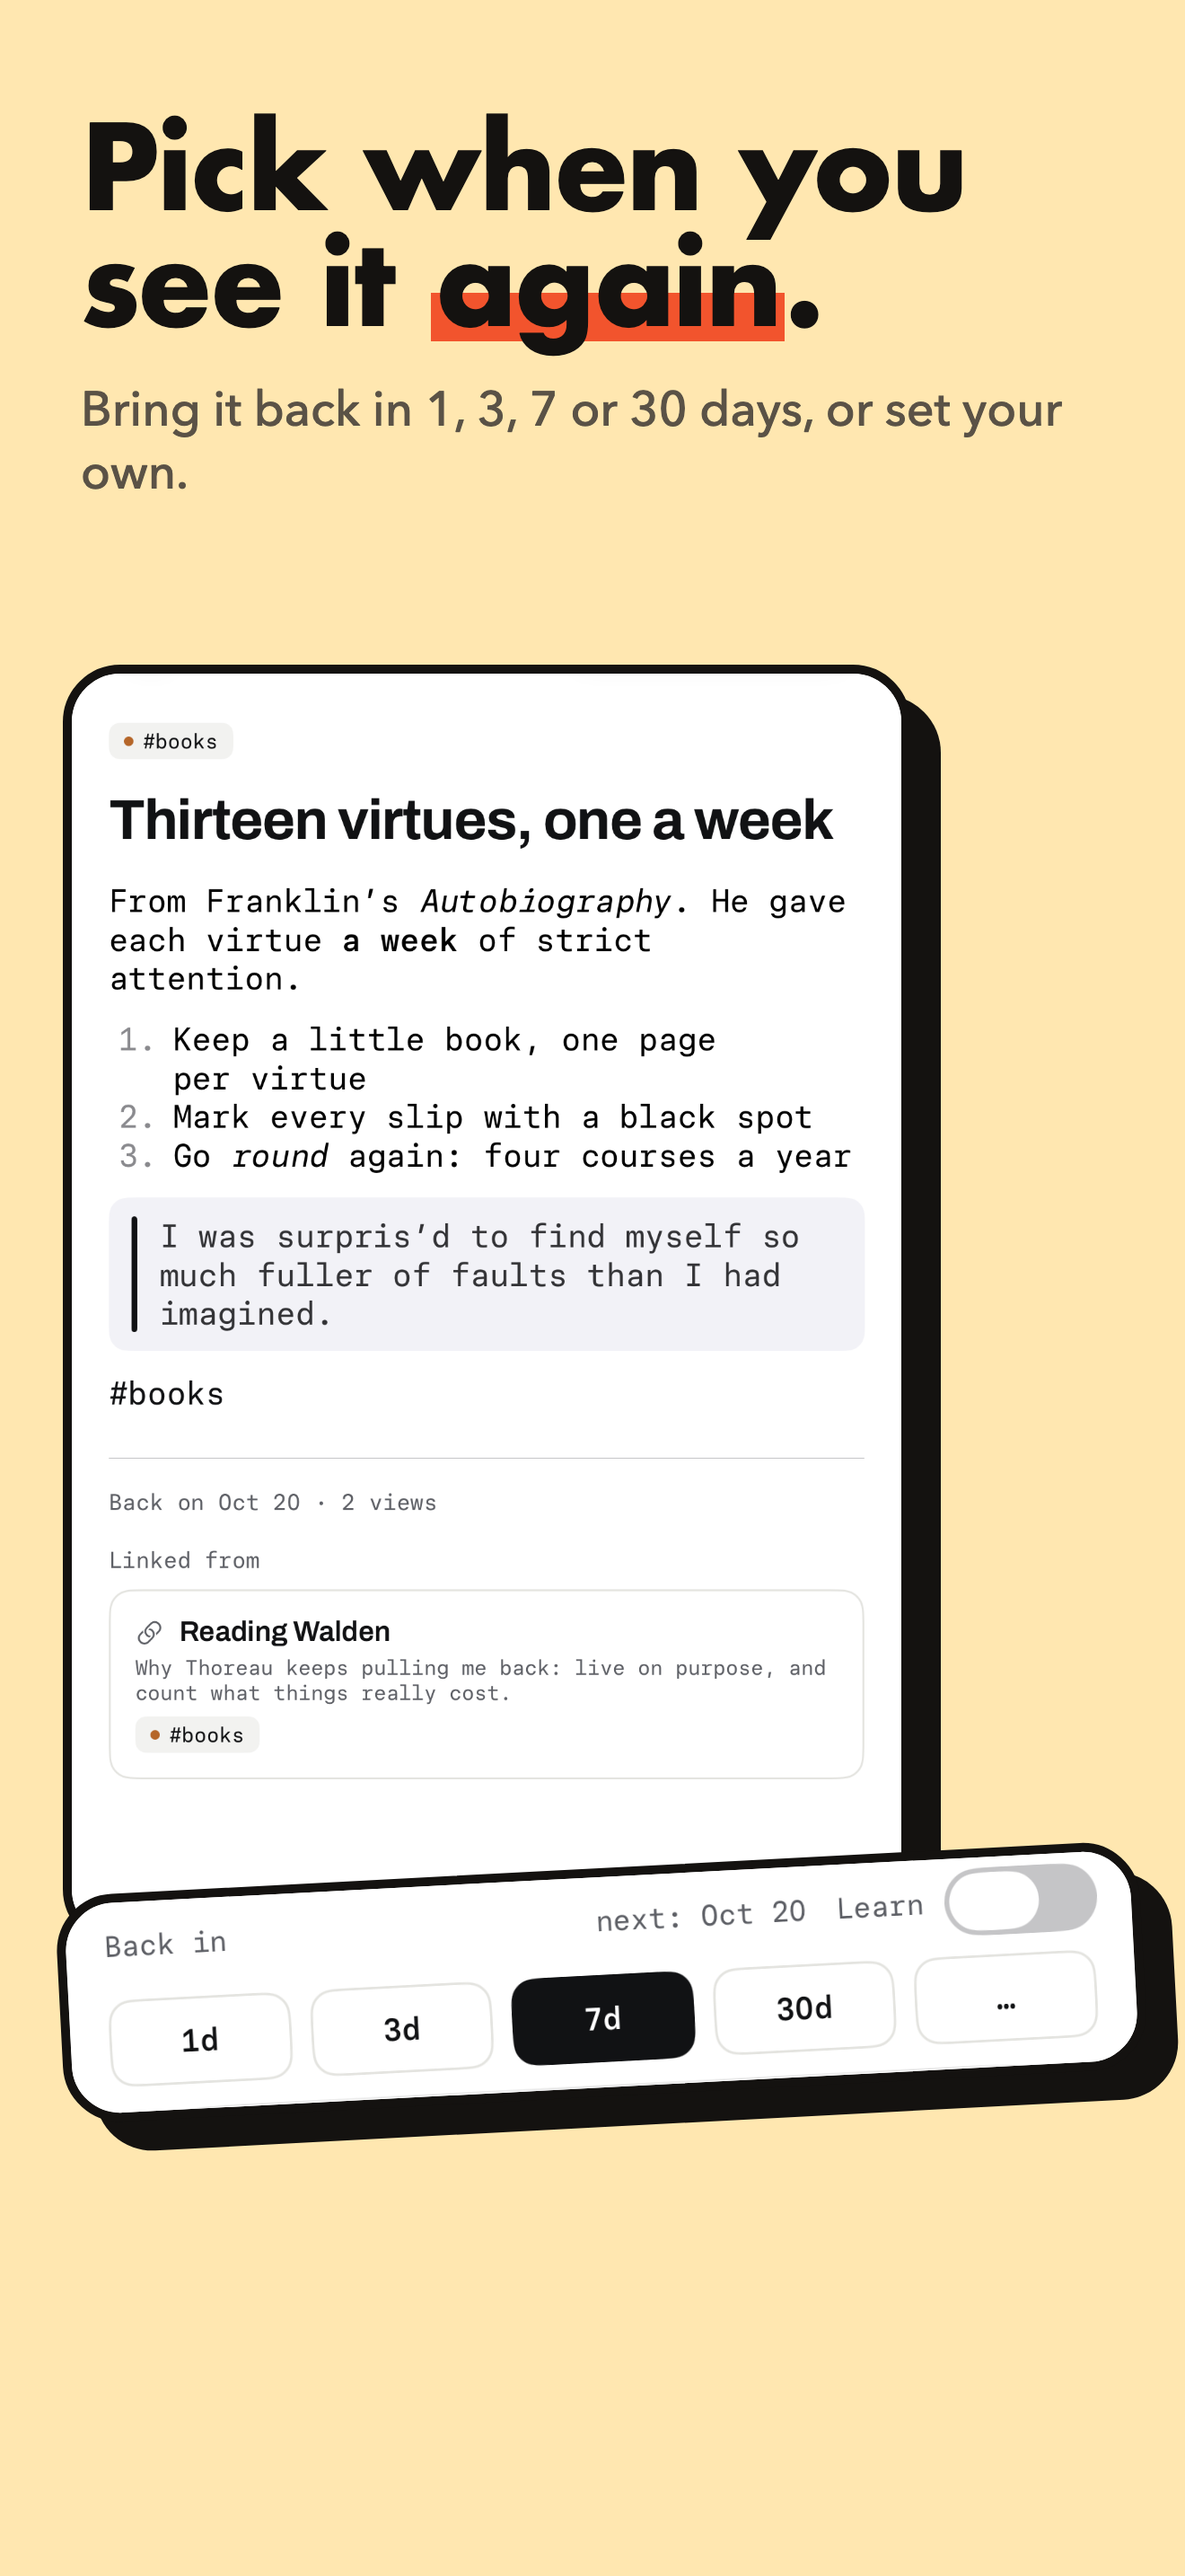
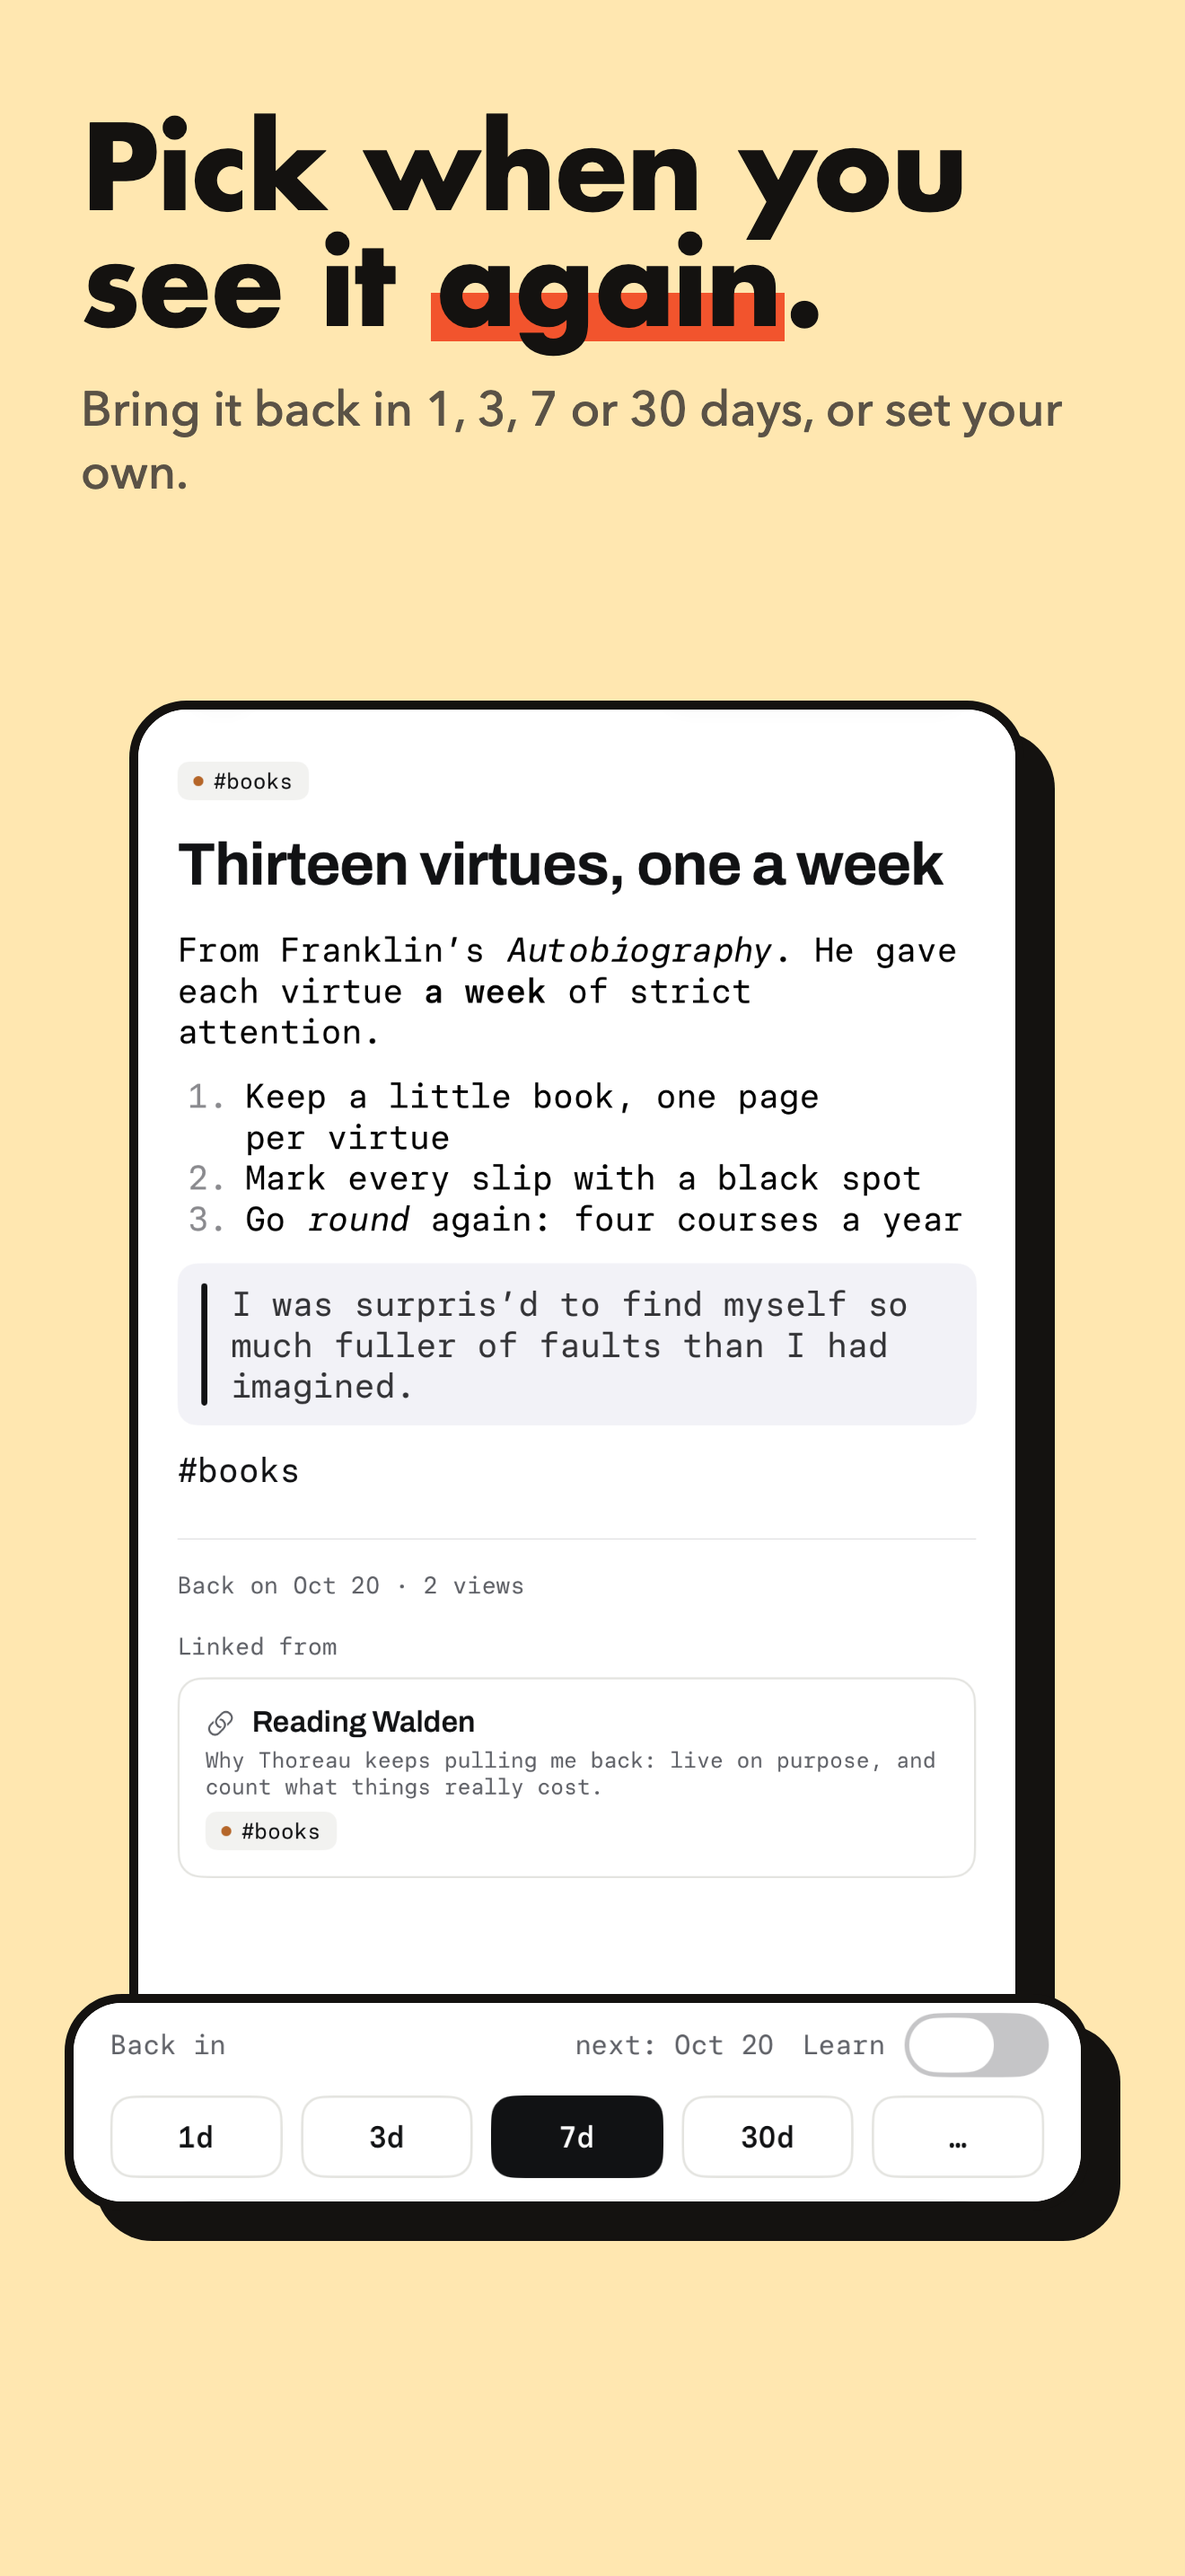
Screenshots: center the interval cards, untilt the Back in close-up, pad the search card's top
Claude-Session: https://claude.ai/code/session_01AqnxEHZ3DQgCfWnMDku6rd

Changed region(s): [[0.0311, 0.2483, 0.9939, 0.8689]]

diff --git a/app-store-assets/Screenshots/src/shot.html b/app-store-assets/Screenshots/src/shot.html
@@ -15,12 +15,12 @@
   h1 mark { background: linear-gradient(transparent 58%, var(--accent) 58% 90%, transparent 90%); color: inherit; padding: 0 0.04em; }
   h1 .loop { display: inline-block; width: 0.5em; height: 0.5em; margin-left: 0.04em; vertical-align: 0.05em; color: var(--ink); }
   p.support { margin: 44px 0 0; font: 500 54px / 1.3 var(--pop-text); color: var(--muted); max-width: 1120px; }
-  /* --s scales raw px to canvas px; --top/--bottom pick the raw rows shown; --pad adds blank raw px below. */
+  /* --s scales raw px to canvas px; --top/--bottom pick the raw rows shown; --pad and --padTop add blank raw px below and above. */
   .card { position: absolute; box-sizing: content-box; overflow: hidden; background: var(--bg, #ffffff);
     border: 10px solid var(--ink); border-radius: 64px; box-shadow: 34px 34px 0 var(--ink);
-    width: calc(1320px * var(--s)); height: calc((var(--bottom) - var(--top) + var(--pad)) * 1px * var(--s));
+    width: calc(1320px * var(--s)); height: calc((var(--bottom) - var(--top) + var(--pad) + var(--padTop)) * 1px * var(--s));
     transform: rotate(var(--rot)); transform-origin: 50% 50%; }
-  .card .clip { position: absolute; left: 0; top: 0; right: 0; height: calc((var(--bottom) - var(--top)) * 1px * var(--s)); overflow: hidden; }
+  .card .clip { position: absolute; left: 0; top: calc(var(--padTop) * 1px * var(--s)); right: 0; height: calc((var(--bottom) - var(--top)) * 1px * var(--s)); overflow: hidden; }
   .card img { position: absolute; left: 0; top: calc(var(--top) * -1px * var(--s)); width: calc(1320px * var(--s)); display: block; }
 </style>
 <div id="stage">
@@ -55,7 +55,7 @@
     const decoded = shot.cards.map((c) => {
       const card = document.createElement('div');
       card.className = 'card';
-      card.style.cssText = `left: ${c.x}px; top: ${c.y}px; --s: ${c.s}; --top: ${c.top}; --bottom: ${c.bottom}; --pad: ${c.pad ?? 0};`
+      card.style.cssText = `left: ${c.x}px; top: ${c.y}px; --s: ${c.s}; --top: ${c.top}; --bottom: ${c.bottom}; --pad: ${c.pad ?? 0}; --padTop: ${c.padTop ?? 0};`
         + ` --rot: ${c.rot ?? 0}deg; --bg: ${c.bg ?? '#ffffff'}`;
       const clip = Object.assign(document.createElement('div'), { className: 'clip' });
       const img = Object.assign(document.createElement('img'), { alt: '', src: `../raw/${c.raw}.png` });

diff --git a/app-store-assets/Screenshots/src/copy.js b/app-store-assets/Screenshots/src/copy.js
@@ -2,7 +2,7 @@
 // each a crop of one raw/ capture (set by ThoughtRepsUITests/ScreenshotTests.swift) in a Pop card with a hard shadow:
 //   raw            the capture's name in raw/
 //   top, bottom    the raw rows shown (raw px; 330-2600 is a thought's content without the nav buttons and tab bar)
-//   pad            blank raw px added below the crop, in `bg` (default the Ink paper, white)
+//   pad, padTop    blank raw px added below and above the crop, in `bg` (default the Ink paper, white)
 //   x, y, s, rot   the card's left and top on the 1320x2868 canvas, its scale (raw px to canvas px) and its tilt in degrees
 // A card whose bottom runs past the canvas shows only the top of the screen. `<mark>` highlights a word; `<loop></loop>`
 // draws the loop mark. Lines of a headline are separated by <br>. Loaded by shot.html, preview.html and gen.mjs.
@@ -56,14 +56,14 @@ const SHOTS = [
     name: '07-interval', headline: 'Pick when you<br>see it <mark>again</mark>.',
     support: 'Bring it back in 1, 3, 7 or 30 days, or set your own.',
     cards: [
-      { raw: '05-interval', top: 330, bottom: 2340, x: 70, y: 740, s: 0.7 },
-      { raw: '05-interval', top: 2360, bottom: 2620, x: 66, y: 2080, s: 0.9, rot: -3 },
+      { raw: '05-interval', top: 330, bottom: 2340, x: 144, y: 780, s: 0.74 },
+      { raw: '05-interval', top: 2360, bottom: 2620, x: 72, y: 2220, s: 0.85 },
     ],
   },
   {
     name: '08-search', headline: 'Find any thought<br>in a <mark>second</mark>.',
     support: 'Search every note and journal entry, active or archived.',
-    cards: [{ raw: '07-search', top: 170, bottom: 2868, x: 62, y: 740, s: 0.88, rot: -2 }],
+    cards: [{ raw: '07-search', top: 160, bottom: 2868, padTop: 60, x: 62, y: 740, s: 0.88, rot: -2 }],
   },
   {
     name: '09-tags', headline: 'Sort with <mark>#tags</mark>.',
